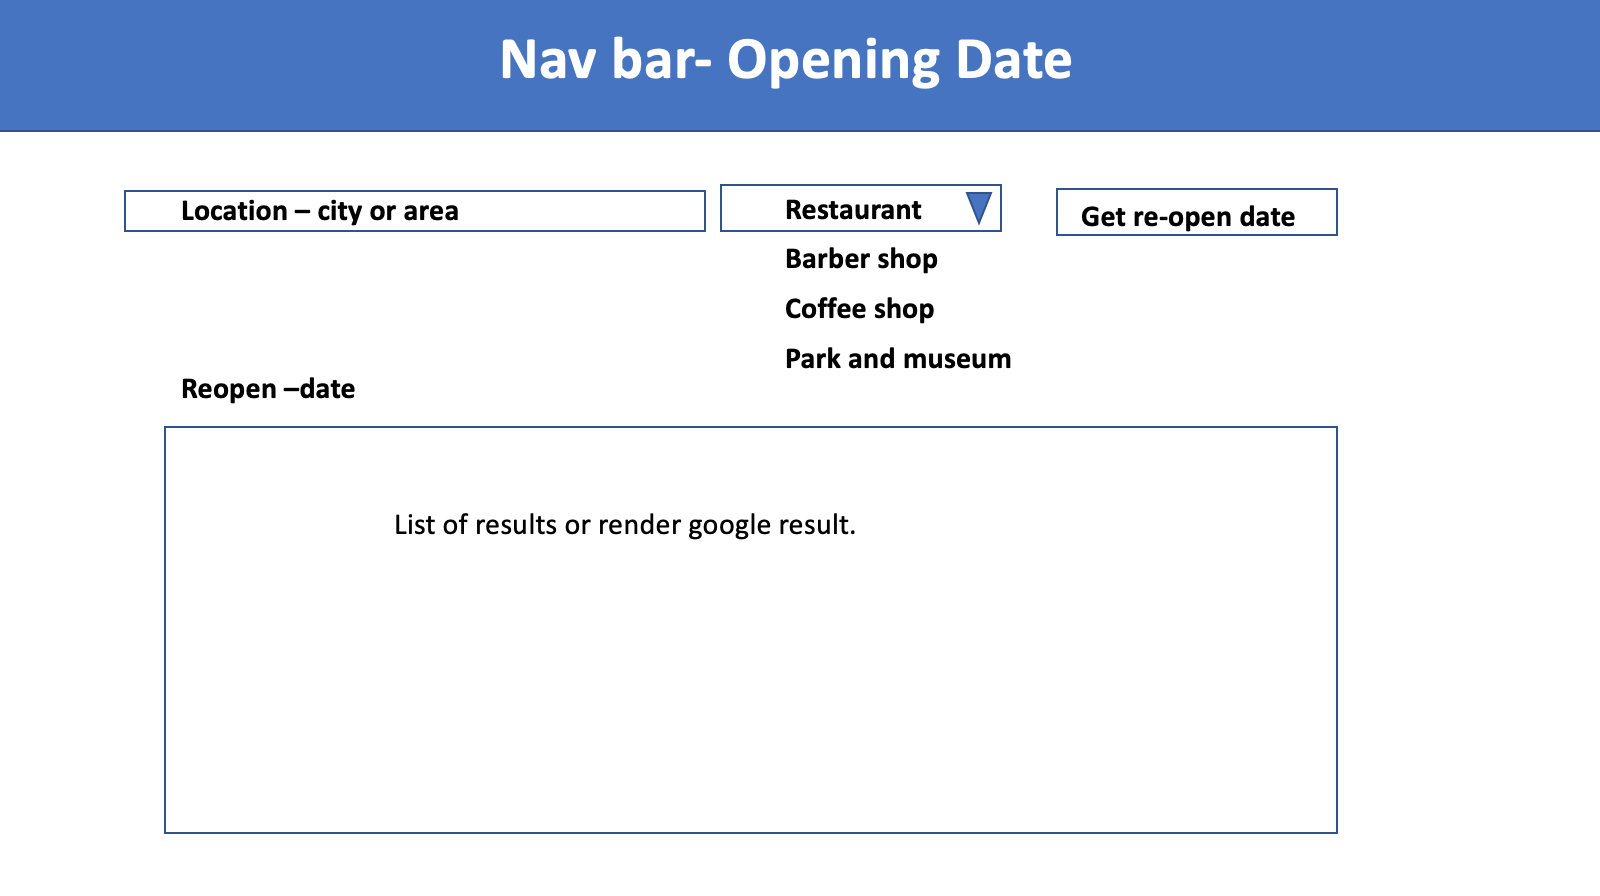
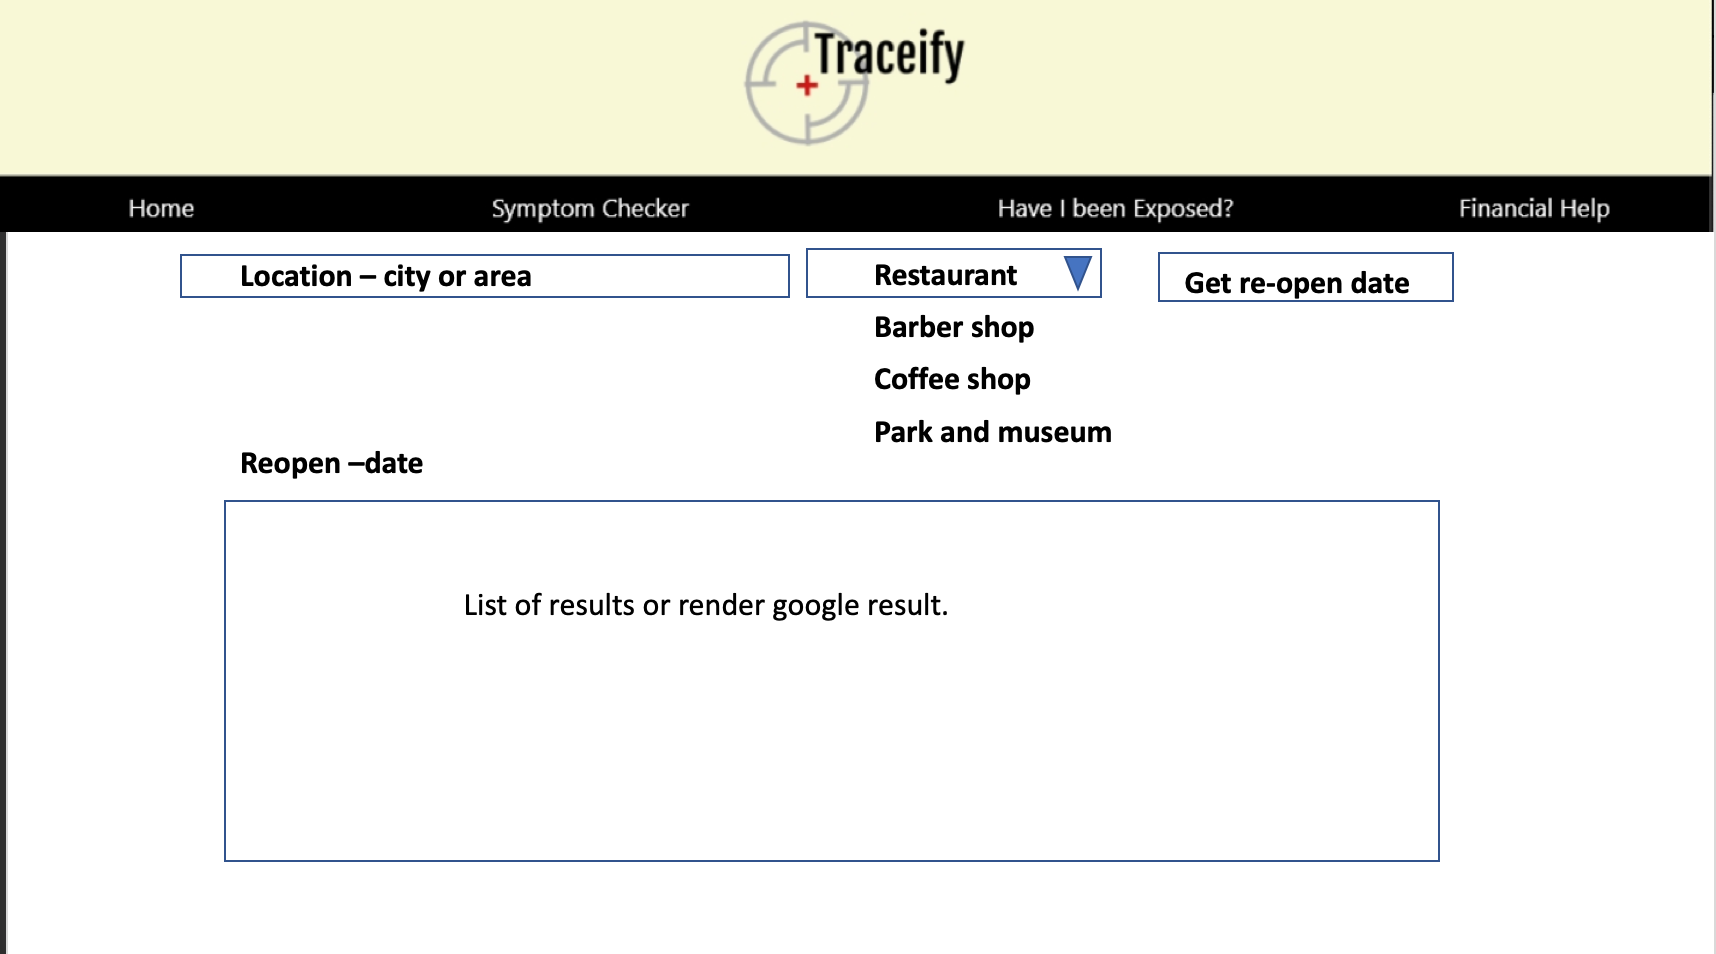
add thank you page and updated one previous page pic

diff --git a/README.md b/README.md
@@ -51,15 +51,17 @@ Our project aims to help the general public in BC by providing information and k
 ##	 Project Task Requirements:
 
 *	3-5 minimal requirements (will definitely complete)
-    - Admin panel: Admin can submit patient data to be stored on the database
+    - Admin panel: Admin can submit anonymous patient data to be stored on the database
     - Home page: Google Maps integration to show data on map based on the filter selected
     - Symptom Checker page
+    - A thank you pape for all essential workers and people stay at home
     <br/>
     
 *	3-7 "standard" requirements (will most likely complete)
     - Have I Been Exposed? page
     - Financial Help page (links to CERB, EI, BC Emergency Workers fund, etc.)
     - Retailers Re-Opening Dates
+    - (Historical data visulization), so people can see if the curve has been flattern 
     <br/>
     
 *	2-3 stretch requirements (plan to complete 1)
@@ -82,6 +84,7 @@ Our project aims to help the general public in BC by providing information and k
 <br/>
 
 ## Prototypes
+![Thank you Page](protosketch/thankPage.png)
 ![Home](protosketch/1.jpg)
 ![Symptom Checker](protosketch/2.jpg)
 ![Have I been Exposed?](protosketch/3.jpg)
